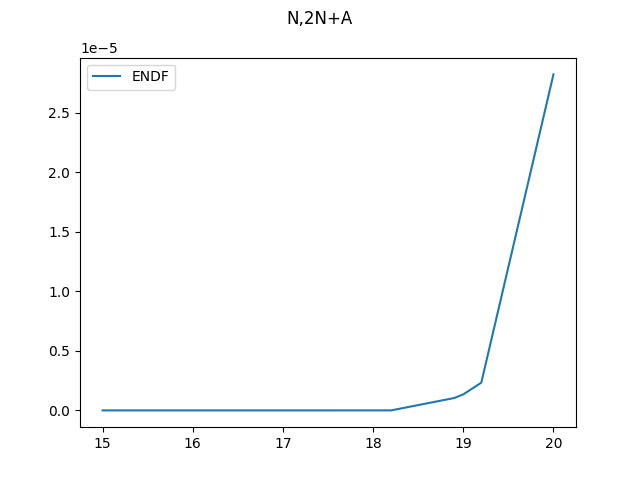
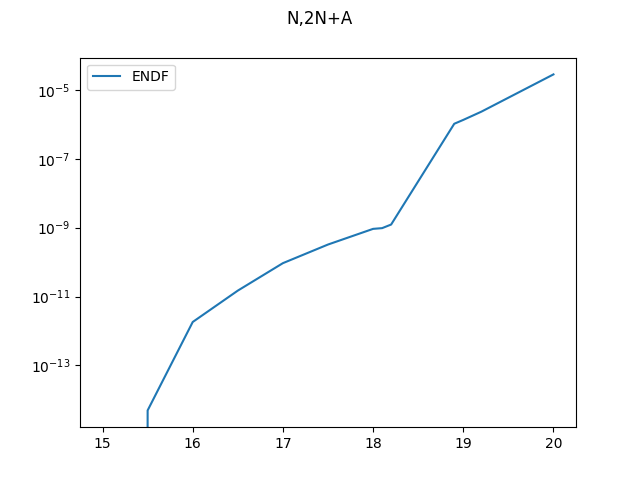
Fixed labeling of EXFOR sets and log vs linear scaling

diff --git a/Code/Parse.py b/Code/Parse.py
@@ -96,12 +96,32 @@ def strToArray(text):
 def plot(name, data):
     fig = plt.figure()
     fig.suptitle(name)
+    x_min = np.inf
+    y_min = np.inf
+    x_max = 0
+    y_max = 0
     for n, df in data.items():
+        # Plotting data
         if len(n.split('_')) == 2:
             plt.plot(df['X(MeV)'], df['Y(barns)'], label = n.split('_')[1])
         else:
-            plt.errorbar(df['X(MeV)'], df['Y(barns)'], xerr = df['+-dX(MeV)'], yerr = df['+-dY(barns)'], ls='none', label = df['EXFOR-ID'][0], marker = 'o', mfc='white')
+            for key, grp in df.groupby(['EXFOR-ID']):
+                plt.errorbar(grp['X(MeV)'], grp['Y(barns)'], xerr = grp['+-dX(MeV)'], yerr = grp['+-dY(barns)'],\
+                             ls = 'none', marker = 'o', mfc= 'white', label=key)
+        
+        #Finding extremes for purpose of determining log vs linear plotting
+        x_min = min(x_min, df['X(MeV)'].min())
+        y_min = min(y_min, df['Y(barns)'].min())
+        x_max = max(x_max, df['X(MeV)'].max())
+        y_max = max(y_max, df['Y(barns)'].max())
+    
+    # Plot formatting
     plt.legend(loc = 'best')
+    if x_max/x_min > 1000:
+        plt.xscale('log')
+    if y_max/y_min > 1000:
+        plt.yscale('log')
+
     return fig
 
 def sortReactions(reactions):
